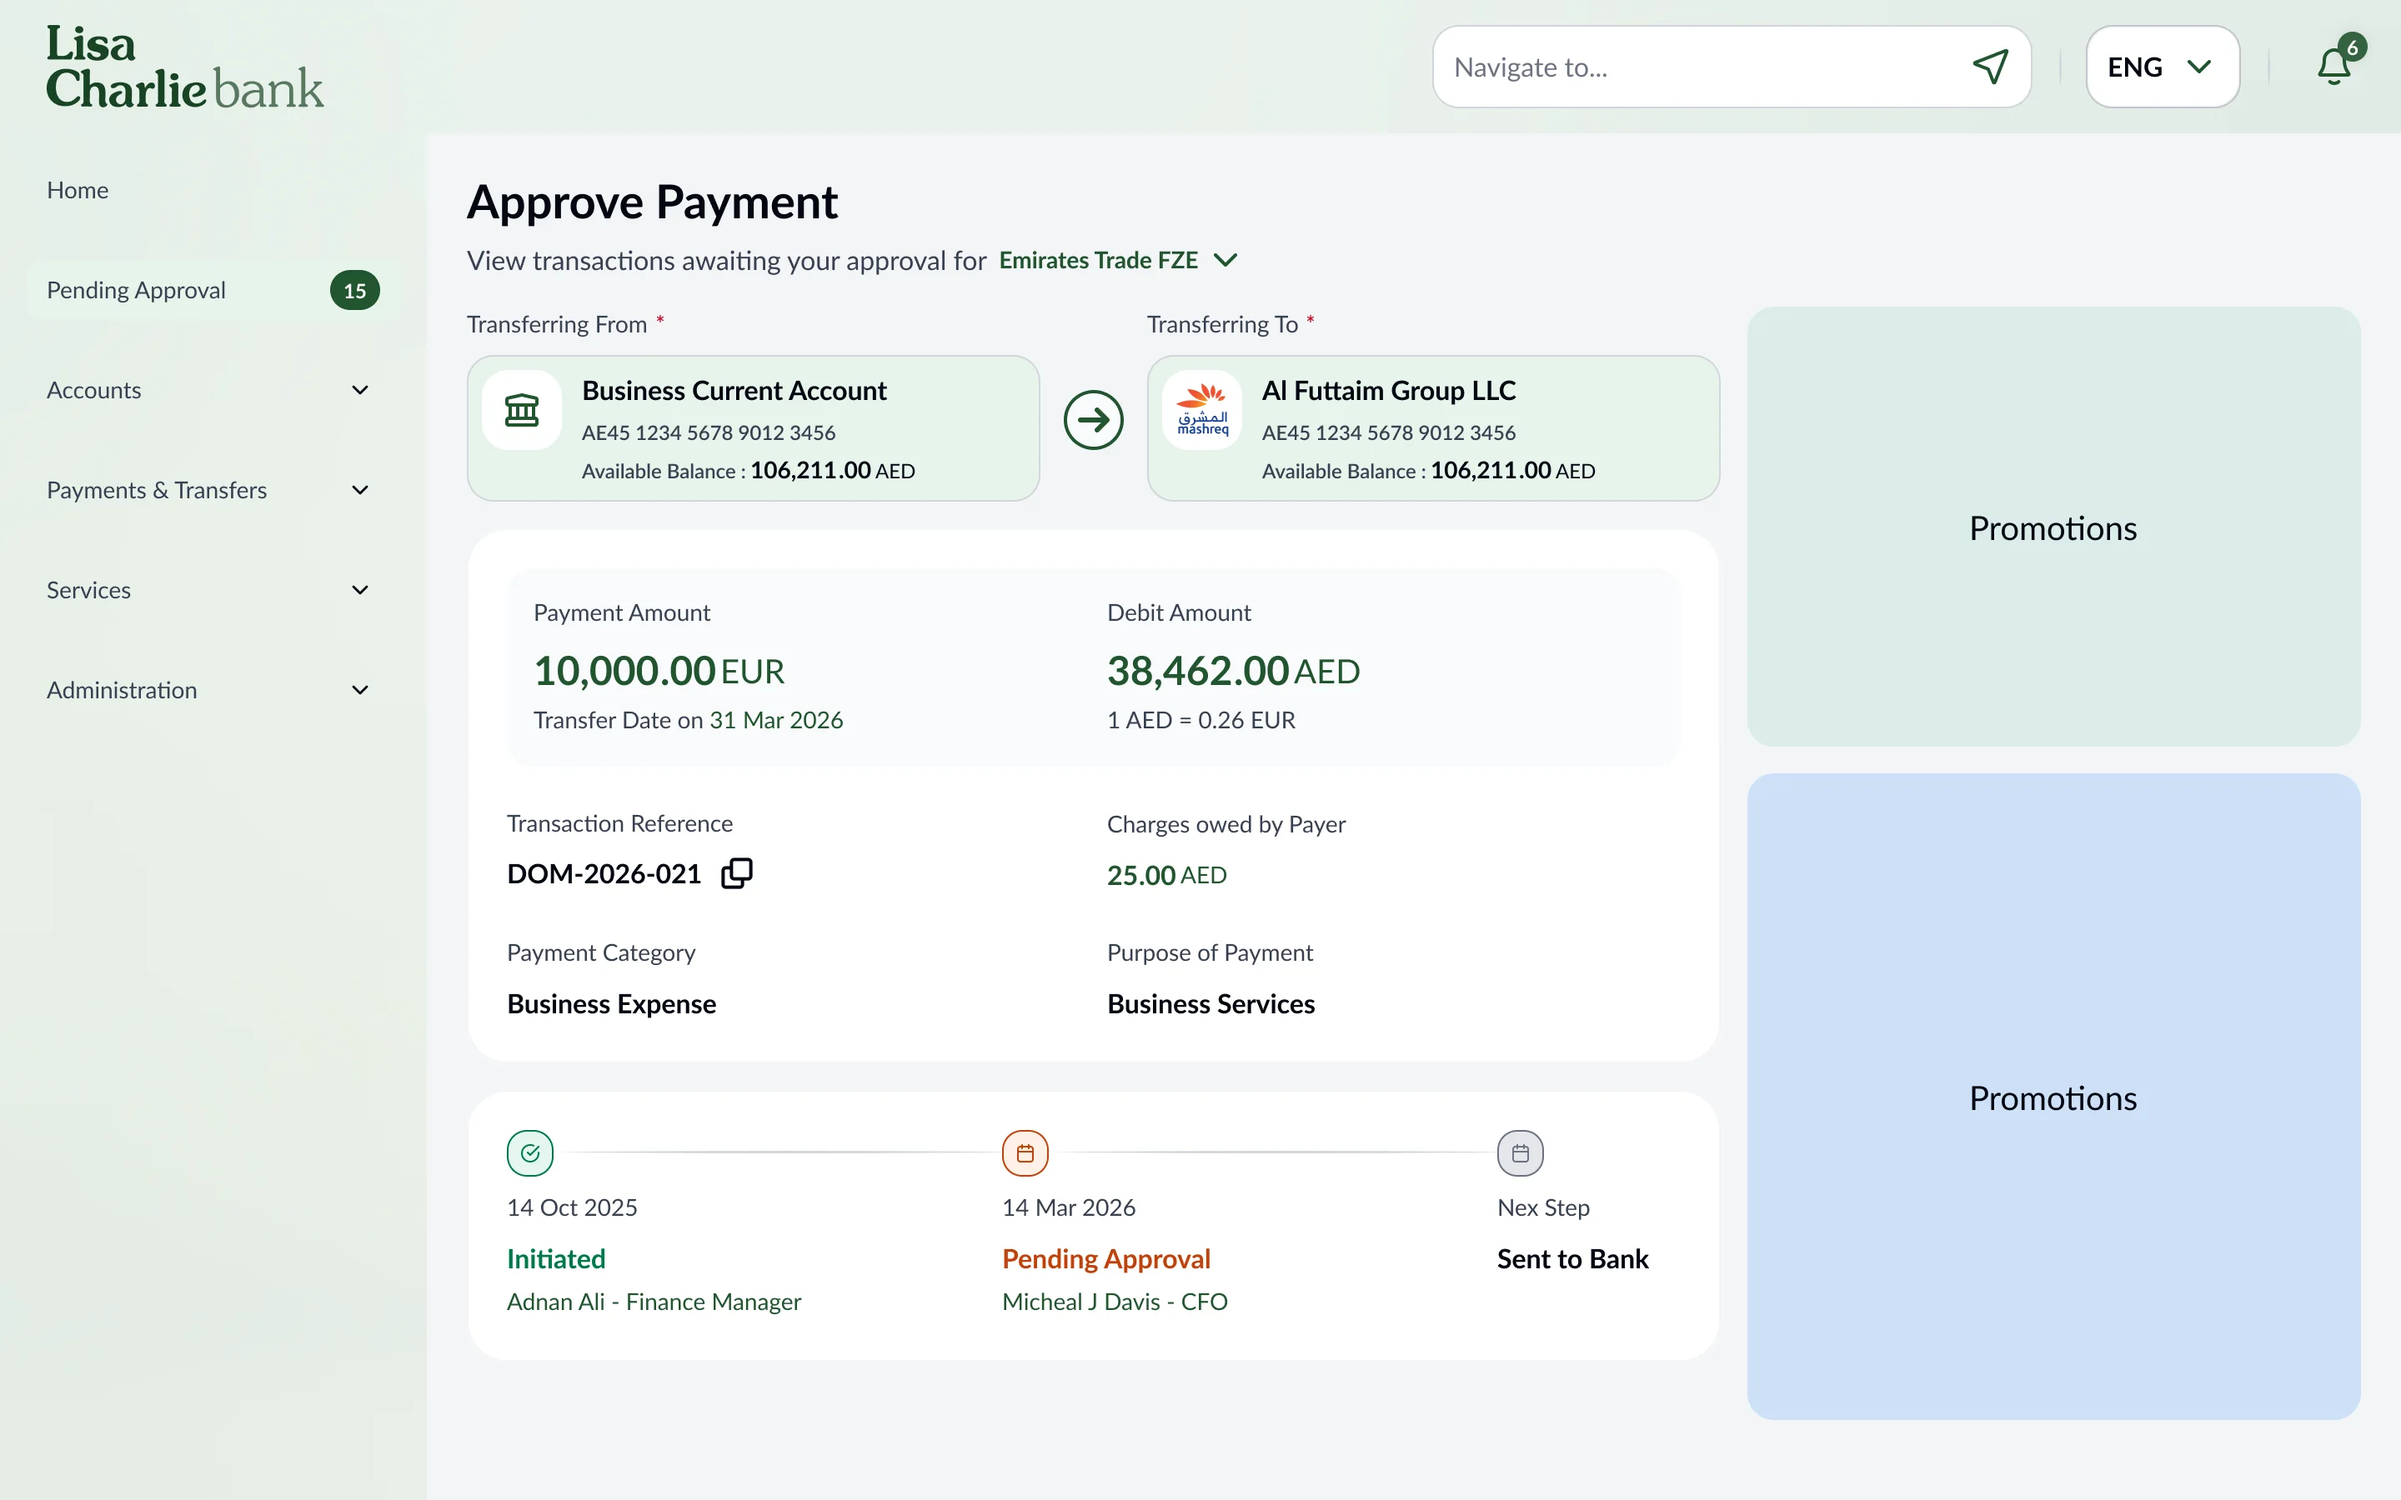
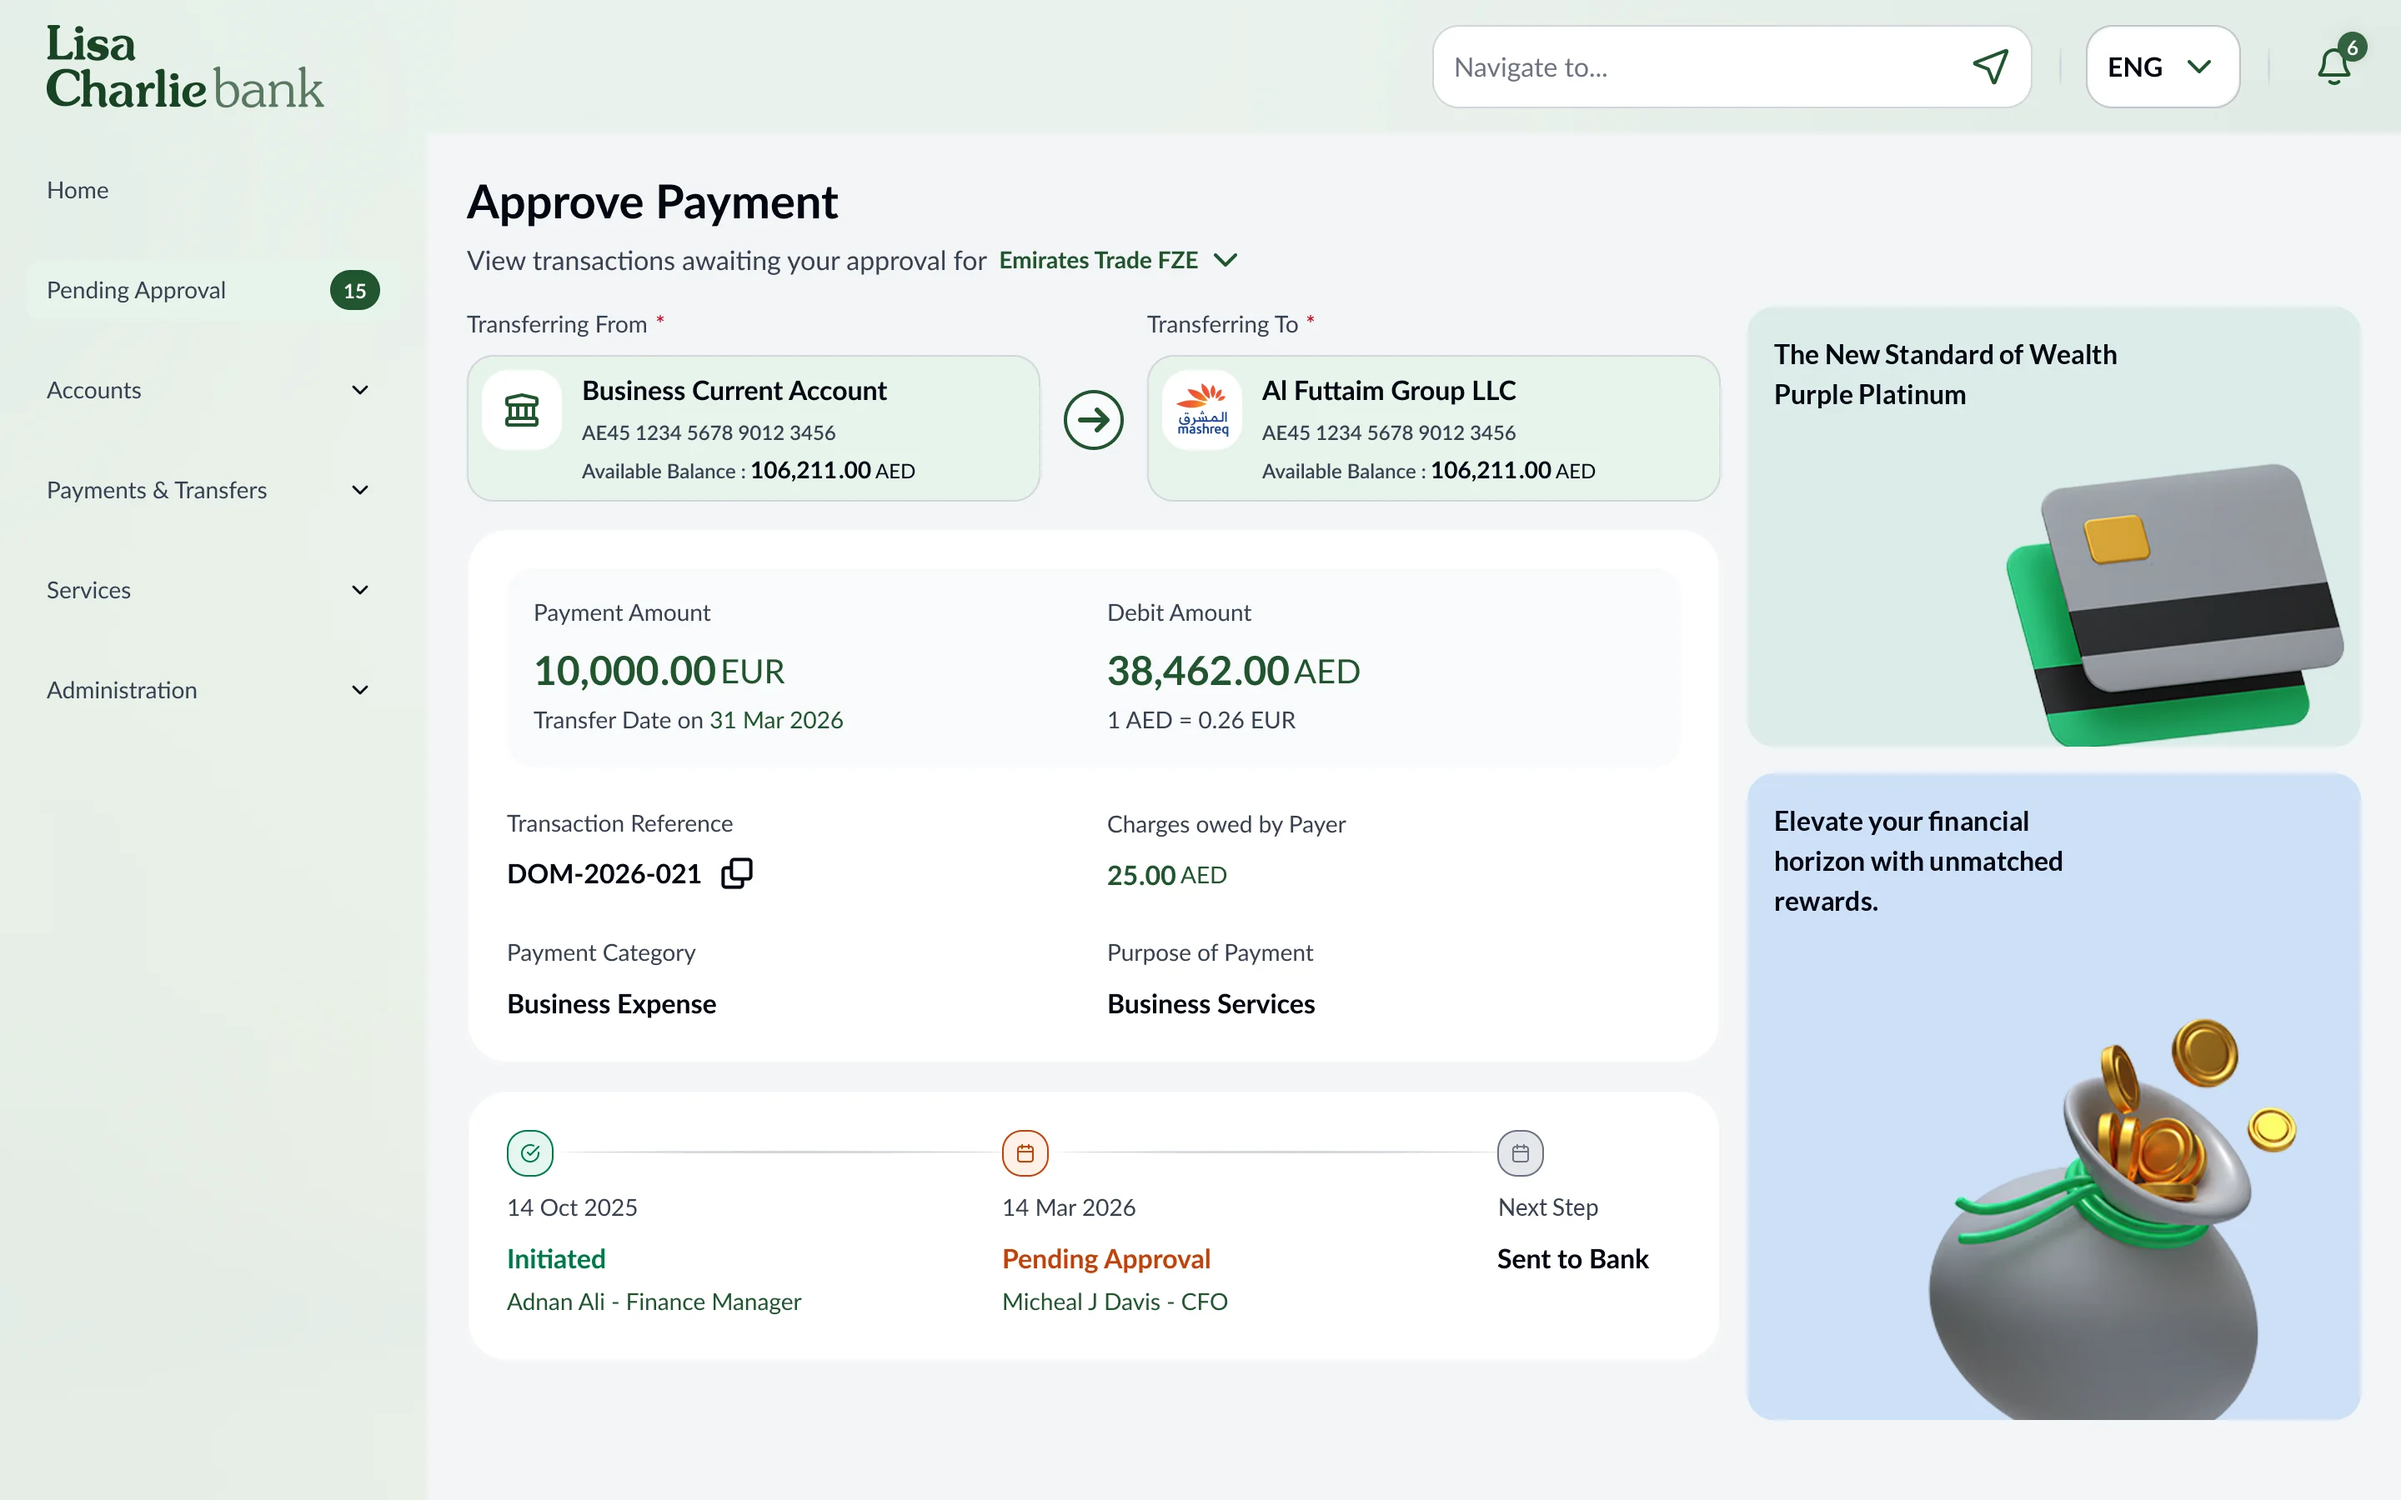
CBX300 screens: native typo fixes, keyboard-free welcome, real promo cards in web screens

diff --git a/assets/img/cbx300/README.md b/assets/img/cbx300/README.md
@@ -53,3 +53,8 @@ Web screens come from the CBX300 Figma "Interactive All journeys" page (1440 web
 | s03-ch3-web-pending-approvals | S03 Ch3 desk: approval queue + cover laptop | 22789:154433 |
 | s03-ch3-web-approve-payment | S03 Ch3 desk: payment detail + maker/checker trail | 22789:154618 |
 | cbx300-cover-{light,dark}-poster.jpg + assets/video/cbx300/cbx300-cover-{light,dark}.{mp4,webm} | S01 cover: code-built (HTML/CSS 3D) frameless browser + phone + lifted approval row, real masked screens only, no generated imagery, 5 s seamless parallax loop, 1600x900, H.264 + VP9, muted | — |
+
+## Nov 24 cleanups (native, from Figma)
+- Typos retyped in Lato at the exact Figma size/weight/colour: "User Managment" → "User Management", "Pending Approcal" → "Pending Approval" (s05-user-management), "Nex Step" → "Next Step" (s03-ch3-web-approve-payment).
+- s06-welcome now uses the keyboard-free Figma state "Welcome to Lisa Charlie Banking · 2" (7244:19269).
+- Grey "Promotions" placeholders on web dashboard / approve payment / bulk upload filled with the Figma "Story Promotions" Main Card content (14968:49928 / 14968:49932: Lato Bold 16/24 heading + original card / coin-bag art), on the placeholders' own fill and radius.
